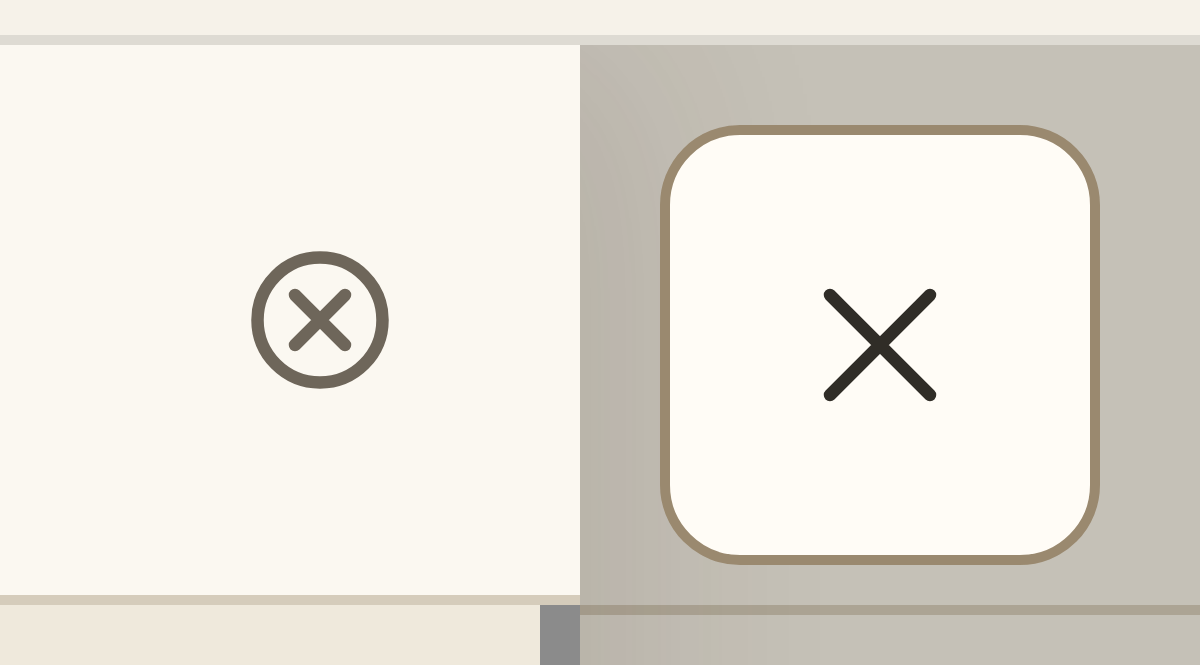
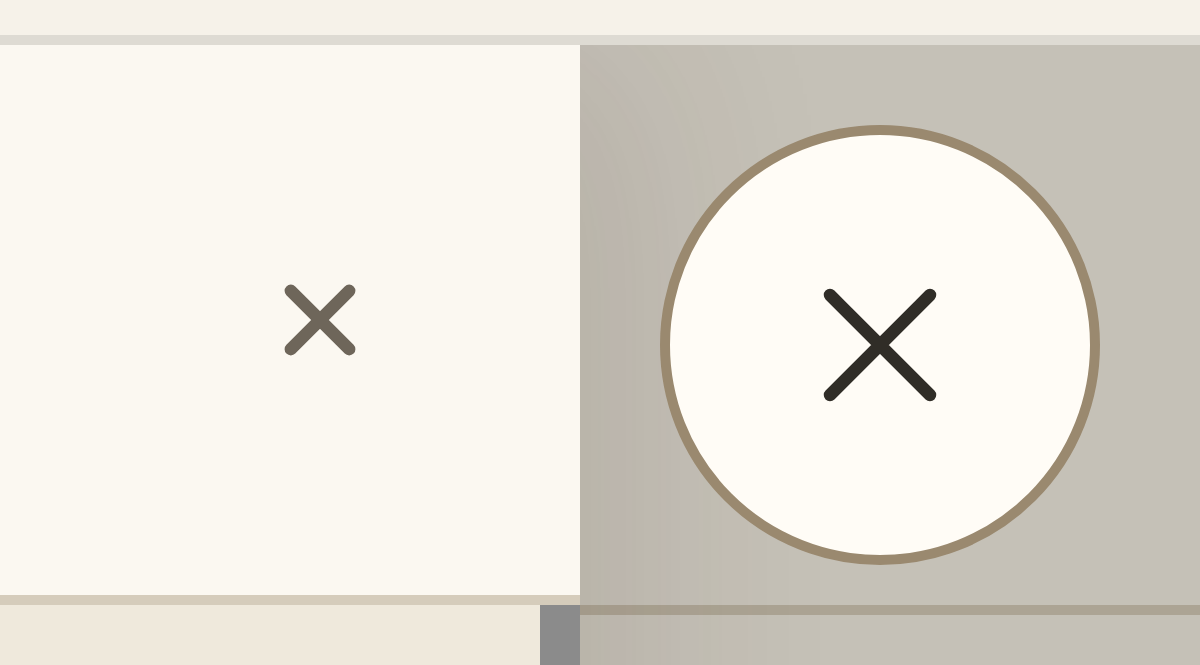
原型：新建图标改「纸 + 加号」，两枚叉改用底板区分
用户对 #67 定的三处外观提出调整：

- 「新建」原来只有一枚加号，看不出是新建什么 → 改成一张纸加一枚加号。
  纸在左上（约 10×12px，带折角），加号在右下，两者之间留空不粘连。
  20px 下试了 8 个画法后选定这一版：加号够大、纸的折角还认得出、
  和旁边的齿轮并排不打架。
- 搜索框里的清空叉去掉外圈，变成一枚光秃秃的叉（比 close 略小一号）。
- 侧栏外的关闭键底板由圆角矩形改成圆形。

两枚叉现在图形相同，靠容器区分：框内那枚没有底板，侧栏外那枚坐在圆盘上。
命中区仍不重叠（相隔 12px），点清空叉仍不动输入框节点与焦点。

验收：真浏览器 29 条判据全过（两宽、两主题、IME 通路、节点不变）。

diff --git a/docs/design/ui-redraw/prototype.html b/docs/design/ui-redraw/prototype.html
@@ -183,9 +183,9 @@ body { font-family:var(--font-ui); padding:0 0 80px; }
   transition:opacity 180ms ease-out; }
 .screen[data-side-open="true"][data-layout="phone"] .scrim { opacity:1; pointer-events:auto; }
 /* 侧栏外的关闭键：手机贴在侧栏右外侧、露出的那 1/4 的左上角，遮罩在它身后。
-   靠“带底色的方块 + 裸叉”与搜索框里那颗“圆内叉”区分开。宽屏侧栏常驻，不需要它。 */
+   靠“圆形底板 + 裸叉”与搜索框里那颗“光秃秃的叉”区分开。宽屏侧栏常驻，不需要它。 */
 .side-close-out { position:absolute; left:calc(75% + 8px); top:8px; z-index:40; width:44px; height:44px;
-  border:1px solid var(--color-border-strong); border-radius:var(--radius-md);
+  border:1px solid var(--color-border-strong); border-radius:50%;
   background:var(--color-raised); color:var(--color-text); }
 .side-close-out:hover { background:var(--color-hover); }
 .side-close-out:active { background:var(--color-pressed); }
@@ -451,10 +451,10 @@ body { font-family:var(--font-ui); padding:0 0 80px; }
 <svg width="0" height="0" style="position:absolute" aria-hidden="true"><defs>
   <g id="i-menu"><path d="M4 6h16M4 12h16M4 18h16"/></g>
   <g id="i-close"><path d="M6 6l12 12M18 6L6 18"/></g>
-  <g id="i-clear"><circle cx="12" cy="12" r="7.5"/><path d="M9 9l6 6M15 9l-6 6"/></g>
+  <g id="i-clear"><path d="M8.5 8.5l7 7M15.5 8.5l-7 7"/></g>
   <g id="i-search"><circle cx="10.5" cy="10.5" r="6.5"/><path d="M15.5 15.5L20 20"/></g>
   <g id="i-settings"><path d="M9.7 3h4.6l.6 2.5c.5.2 1 .5 1.4.8l2.4-.9 2.3 4-2 1.6c.1.5.1 1 0 1.5l2 1.6-2.3 4-2.4-.9c-.4.3-.9.6-1.4.8l-.6 2.5H9.7l-.6-2.5c-.5-.2-1-.5-1.4-.8l-2.4.9-2.3-4 2-1.6a7 7 0 0 1 0-1.5L3 8.4l2.3-4 2.4.9c.4-.3.9-.6 1.4-.8z"/><circle cx="12" cy="12" r="3.1"/></g>
-  <g id="i-new"><path d="M12 4v16M4 12h16"/></g>
+  <g id="i-new"><path d="M4.5 3.5h6.5l3.5 3.5v8.5h-10zM11 3.5V7h3.5"/><path d="M15.5 17.5h6M18.5 14.5v6"/></g>
   <g id="i-back"><path d="M14.5 5l-7 7 7 7"/></g>
   <g id="i-more"><circle cx="5" cy="12" r="1.4" fill="currentColor" stroke="none"/><circle cx="12" cy="12" r="1.4" fill="currentColor" stroke="none"/><circle cx="19" cy="12" r="1.4" fill="currentColor" stroke="none"/></g>
   <g id="i-chev-r"><path d="M9 5l7 7-7 7"/></g>
